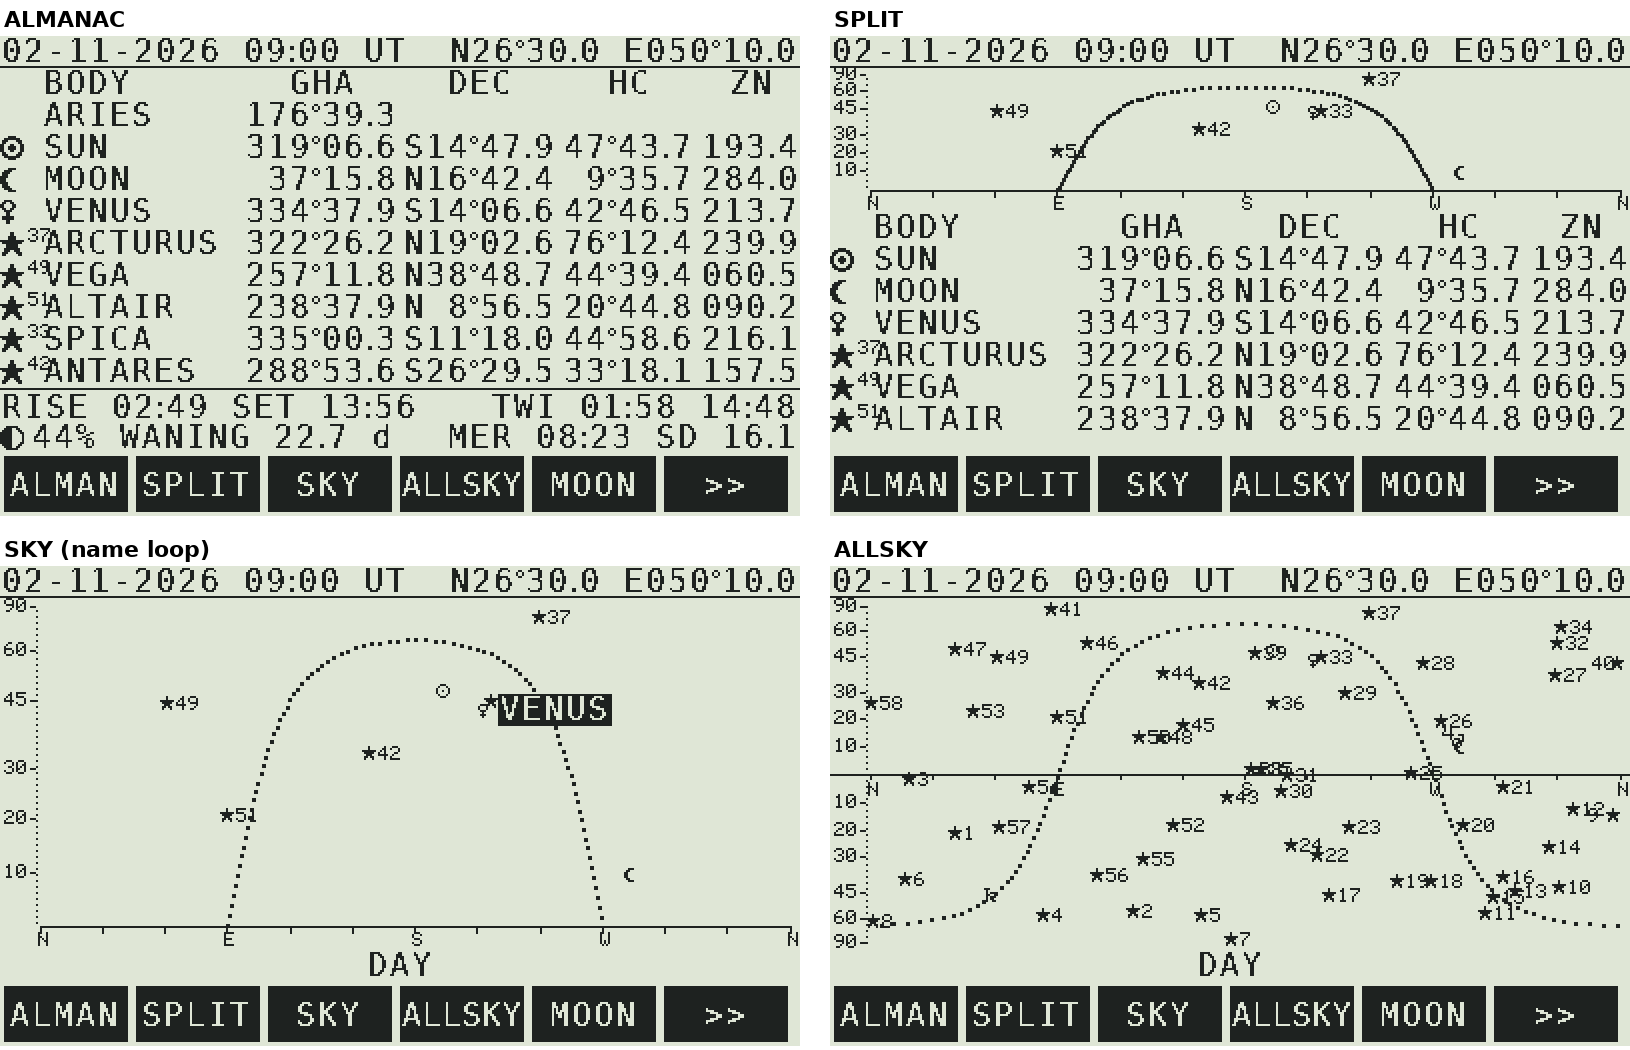
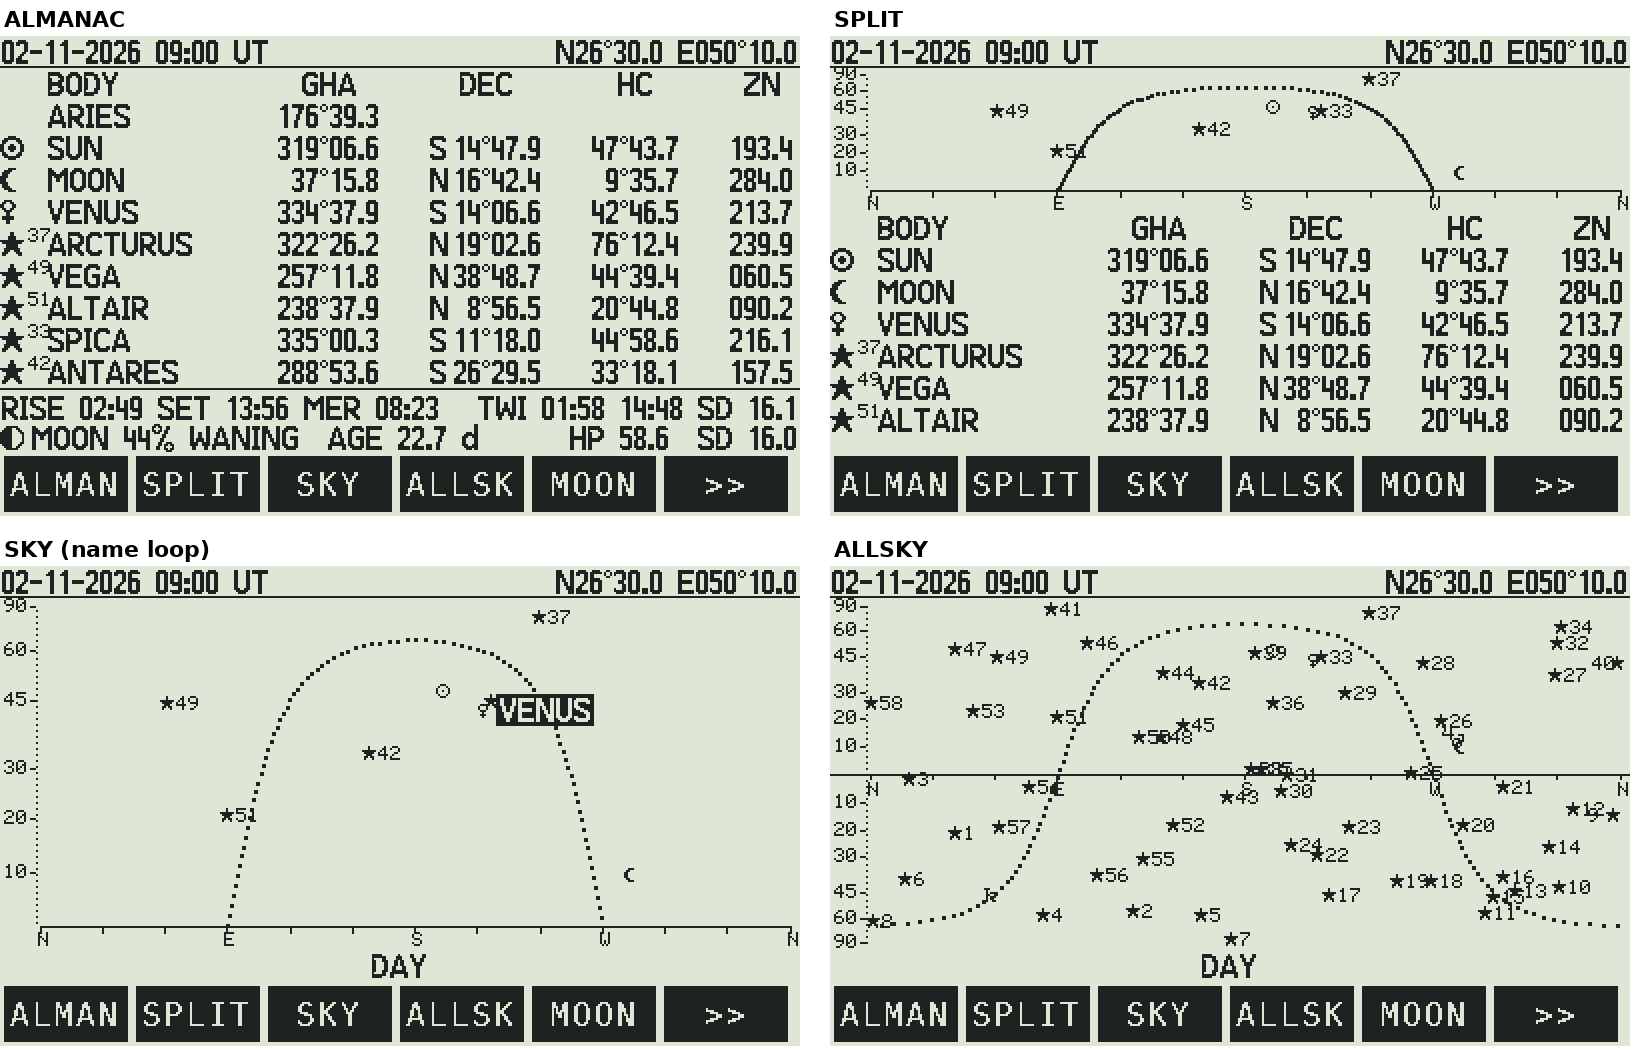
Page text in the C47 standard font
On the DM42n the DMCP t20 text sat lower than planned (the header ran into its rule and
the last row hid under the menu bar) and the ALMANAC table was crowded. All page text now
uses Almanac 47's C47 font (GRFNT 21, already compiled in), drawn pixel for pixel, so the
simulator matches the calculator. The DMCP font stays in the menu bar.

- ALMANAC / SPLIT: full star names, wider columns, Moon HP and SD back in the footer.
- ROUTE: wider columns and a key hint row (UP DN select, ENTER edit).
- ALLSKY soft key labelled ALLSK (the firmware cut it to five letters).

Claude-Session: https://claude.ai/code/session_01Jv6gmoHfVHJhBCrb7z8Khg

diff --git a/src/ntext.c b/src/ntext.c
@@ -1,70 +1,56 @@
-/* ntext.c - NAV47: text in the DMCP5 system font. A private copy of t20's display state (the system's own is not
- * touched): no background or line fill, so the text sits on the charts; the rows are placed by the baseline.
+/* ntext.c - NAV47: the page text in the C47 standard font (GRFNT 21, Almanac 47's font), drawn straight on the
+ * DMCP LCD on 16-pixel rows: the digits 12 pixels high from row + 2 to the baseline at row + 13, descenders below.
+ * The DMCP system font is left to the menu bar. The degree sign is a small ring drawn here.
  * Copyright (C) 2026 Victor Valdes - GPL-3.0-or-later. */
 #include <main.h>
 #include <dmcp.h>
 #include <string.h>
 #include "ntext.h"
+#include "c47scr.h"
 
-static disp_stat_t D;
-static int CW, BASE;           /* the cell width; the baseline from the top of a row */
+#define BASE 13                /* the baseline (the digits' bottom row) from the top of a row */
 
-void nt_init(void) {
-  D = *t20;
-  D.lnfill = 0; D.bgfill = 0; D.newln = 0; D.inv = 0; D.y_top_grd = 0; D.xoffs = 0;
-  CW = lcd_charWidth(&D, '0');
-  BASE = 13;
-}
-int nt_cw(void) { return CW; }
+void nt_init(void) {}
+int nt_cw(void) { return F21.g['0'].adv; }
 
-static int narrow(int c) { return c == '.' || c == ':' || c == 1; }
-
-static void ring(int x, int y, int v) {          /* the degree sign: a 4 x 4 ring at the cap height */
-  y += 2;
-  lcd_fill_rect((uint32_t)x + 1, (uint32_t)y, 2, 1, v);
-  lcd_fill_rect((uint32_t)x + 1, (uint32_t)y + 3, 2, 1, v);
-  lcd_fill_rect((uint32_t)x, (uint32_t)y + 1, 1, 2, v);
-  lcd_fill_rect((uint32_t)x + 3, (uint32_t)y + 1, 1, 2, v);
-}
+static int adv(int c) { return c == 1 ? 5 : F21.g[c & 0x7f].adv; }
 
 int nt_w(const char *s) {
   int w = 0;
-  for (; *s; s++) w += narrow((unsigned char)*s) ? 5 : CW;
+  for (; *s; s++) w += adv((unsigned char)*s);
   return w;
 }
 
-static int draw(int x, int y, const char *s, int inv) {
-  int top = y + BASE - (lcd_lineHeight(&D) - lcd_baseHeight(&D));     /* the line box, by the baseline */
-  D.inv = (uint8_t)inv;
-  char run[64];
-  while (*s) {
-    int n = 0;
-    while (s[n] && !narrow((unsigned char)s[n]) && n < 63) { run[n] = s[n]; n++; }
-    if (n) {
-      run[n] = 0;
-      lcd_setXY(&D, x, top);
-      lcd_writeText(&D, run);
-      x += n * CW;
-      s += n;
-      continue;
+static void px(int x, int y, int v) {
+  if (x >= 0 && y >= 0 && x < LCD_X && y < LCD_Y) lcd_fill_rect((uint32_t)x, (uint32_t)y, 1, 1, v);
+}
+
+static int draw(int x, int y, const char *s, int v) {
+  int bl = y + BASE;
+  for (; *s; s++) {
+    int c = (unsigned char)*s;
+    if (c == 1) {                                   /* the degree ring, 4 x 4 at the top of the digits */
+      int t = y + 2;
+      px(x + 1, t, v); px(x + 2, t, v); px(x + 1, t + 3, v); px(x + 2, t + 3, v);
+      px(x, t + 1, v); px(x, t + 2, v); px(x + 3, t + 1, v); px(x + 3, t + 2, v);
+    } else {
+      const C47Glyph *g = &F21.g[c & 0x7f];
+      for (int k = 0; k < g->n; k++) {
+        const C47Col *col = &F21.c[g->ofs + k];
+        unsigned int m = col->m;
+        for (int i = 0; m; i++, m >>= 1)
+          if (m & 1) px(x + col->x, bl - (g->yoff + i), v);
+      }
     }
-    int c = (unsigned char)*s++;
-    if (c == 1) ring(x, y, !inv);
-    else {
-      char t[2] = { (char)c, 0 };
-      lcd_setXY(&D, x + 2 - CW / 2, top);          /* the dot of a cell is in its middle */
-      lcd_writeText(&D, t);
-    }
-    x += 5;
+    x += adv(c);
   }
-  D.inv = 0;
   return x;
 }
 
-int nt(int x, int y, const char *s) { return draw(x, y, s, 0); }
+int nt(int x, int y, const char *s) { return draw(x, y, s, 1); }
 int nt_inv(int x, int y, const char *s) {
-  lcd_fill_rect((uint32_t)(x - 1), (uint32_t)y, (uint32_t)(nt_w(s) + 2), NT_ROW, 1);
-  return draw(x, y, s, 1);
+  lcd_fill_rect((uint32_t)(x - 2), (uint32_t)y, (uint32_t)(nt_w(s) + 3), NT_ROW, 1);
+  return draw(x, y, s, 0);
 }
-int nt_r(int xr, int y, const char *s) { return draw(xr - nt_w(s), y, s, 0); }
-int nt_c(int xc, int y, const char *s) { return draw(xc - nt_w(s) / 2, y, s, 0); }
+int nt_r(int xr, int y, const char *s) { return draw(xr - nt_w(s), y, s, 1); }
+int nt_c(int xc, int y, const char *s) { return draw(xc - nt_w(s) / 2, y, s, 1); }

diff --git a/src/views.c b/src/views.c
@@ -142,27 +142,32 @@ static void header(const Al *al, double j) {
 
 /* ---------------------------------------------------------------- the body table (ALMANAC, SPLIT) */
 typedef struct { int name, gha, ns, dec, hc, zn; } Cols;
+static int NAMEW;
 static Cols cols(void) {
-  int c = nt_cw(), dm3 = 6 * c + 10, dm2 = 5 * c + 10;
+  int c = nt_cw(), dm3 = nt_w("000" NT_DEG "00.0"), dm2 = nt_w("00" NT_DEG "00.0");
+  if (!NAMEW) {
+    for (int i = 0; i < 58; i++) if (nt_w(STAR_NAME47[i]) > NAMEW) NAMEW = nt_w(STAR_NAME47[i]);
+    if (nt_w("JUPITER") > NAMEW) NAMEW = nt_w("JUPITER");
+  }
   Cols X;
-  X.name = 22;
-  X.gha = X.name + 9 * c + 2 + dm3;             /* right edges */
-  X.ns = X.gha + 3;
-  X.dec = X.ns + c + dm2;
-  X.hc = X.dec + 4 + dm2;
-  X.zn = X.hc + 4 + 4 * c + 5;
-  int e = (400 - X.zn) / 4;
+  X.name = 24;
+  X.gha = X.name + NAMEW + 4 + dm3;             /* right edges */
+  X.ns = X.gha + 6;
+  X.dec = X.ns + nt_w("N") + 2 + dm2;
+  X.hc = X.dec + 6 + dm2;
+  X.zn = X.hc + 6 + nt_w("000.0");
+  (void)c;
+  int e = (398 - X.zn) / 4;
   if (e > 0) { X.gha += e; X.ns += 2 * e; X.dec += 2 * e; X.hc += 3 * e; X.zn += 4 * e; }
   return X;
 }
 
 static void table_heads(int y, const Cols *X) {
-  int c = nt_cw();
   nt(X->name, y, "BODY");
-  nt_c(X->gha - (6 * c + 10) / 2, y, "GHA");
+  nt_c(X->gha - nt_w("000" NT_DEG "00.0") / 2, y, "GHA");
   nt_c((X->ns + X->dec) / 2, y, "DEC");
-  nt_c(X->hc - (5 * c + 10) / 2, y, "HC");
-  nt_c(X->zn - (4 * c + 5) / 2, y, "ZN");
+  nt_c(X->hc - nt_w("00" NT_DEG "00.0") / 2, y, "HC");
+  nt_c(X->zn - nt_w("000.0") / 2, y, "ZN");
 }
 
 /* ---------------------------------------------------------------- ALMANAC */
@@ -187,7 +192,7 @@ void view_almanac(Al *al) {
     int y = 3 * R + R * i;
     VBody *v = &B[i];
     char nm[12];
-    snprintf(nm, sizeof nm, "%.9s", body_name(v->id));
+    snprintf(nm, sizeof nm, "%.11s", body_name(v->id));
     nt(X.name, y, nm);
     f_dm(s, v->gha); nt_r(X.gha, y, s);
     nt(X.ns, y, v->dec < 0 ? "S" : "N");
@@ -198,18 +203,18 @@ void view_almanac(Al *al) {
   }
   lcd_fill_rect(0, 11 * R, LCD_X, 1, 1);
   /* the Sun's day and the Moon (Almanac 47's three footer lines in two) */
-  f_hm(a, al->times[1]); f_hm(b, al->times[3]);
-  sprintf(s, "RISE %s SET %s", a, b);
+  f_hm(a, al->times[1]); f_hm(b, al->times[3]); f_hm(t, al->times[2]);
+  sprintf(s, "RISE %s SET %s MER %s", a, b, t);
   nt(1, 11 * R + 2, s);
   f_hm(a, al->times[0]); f_hm(b, al->times[4]);
-  sprintf(s, "TWI %s %s", a, b);
-  nt_r(399, 11 * R + 2, s);
-  f_f1(t, al->age);
-  sprintf(s, "%ld%% %s %s d", (long)ipd(al->illum + 0.5), moon_word(al), t);
-  nt(16, 12 * R + 1, s);
-  f_hm(a, al->times[2]);
   f_f1(t, al->sun.sd);
-  sprintf(s, "MER %s SD %s", a, t);
+  sprintf(s, "TWI %s %s SD %s", a, b, t);
+  nt_r(399, 11 * R + 2, s);
+  char hp[24], sd[24];
+  f_f1(t, al->age); f_f1(hp, al->moon[2]); f_f1(sd, al->moon[3]);
+  sprintf(s, "MOON %ld%% %s  AGE %s d", (long)ipd(al->illum + 0.5), moon_word(al), t);
+  nt(16, 12 * R + 1, s);
+  sprintf(s, "HP %s  SD %s", hp, sd);
   nt_r(399, 12 * R + 1, s);
 }
 
@@ -278,7 +283,7 @@ void view_split(Al *al) {
     int y = 104 + R * i;
     char s[24], nm[12];
     VBody *v = &B[i];
-    snprintf(nm, sizeof nm, "%.9s", body_name(v->id));
+    snprintf(nm, sizeof nm, "%.11s", body_name(v->id));
     nt(X.name, y, nm);
     f_dm(s, v->gha); nt_r(X.gha, y, s);
     nt(X.ns, y, v->dec < 0 ? "S" : "N");

diff --git a/src/main.c b/src/main.c
@@ -778,11 +778,11 @@ static void draw_route(void) {
   sprintf(s, "%d WP  TOTAL %.1f NM", N->nwp, tot);
   nt_r(LCD_X - 2, 0, s);
   lcd_fill_rect(0, 15, LCD_X, 1, 1);
-  int c = nt_cw();
-  int xw = 2 * c, xla = xw + 6 + 5 * c + 10 + c, xlo = xla + 6 + 6 * c + 10 + c, xc = xlo + 8 + 3 * c + 5,
-      xd = xc + 8 + 5 * c + 5, xcu = xd + 8 + 6 * c + 5;
-  if (xcu > 398) xcu = 398;
-  nt_r(xw, 16, "WP"); nt_c(xla - (7 * c + 10) / 2, 16, "LAT"); nt_c(xlo - (8 * c + 10) / 2, 16, "LON");
+  int xw = 6 + nt_w("40"), xla = xw + 10 + nt_w("00" NT_DEG "00.0N"), xlo = xla + 12 + nt_w("000" NT_DEG "00.0E"),
+      xc = xlo + 12 + nt_w("000" NT_DEG), xd = xc + 12 + nt_w("0000.0"), xcu = xd + 12 + nt_w("00000.0");
+  int e = (396 - xcu) / 5;
+  if (e > 0) { xla += e; xlo += 2 * e; xc += 3 * e; xd += 4 * e; xcu += 5 * e; }
+  nt_r(xw, 16, "WP"); nt_c(xla - nt_w("00" NT_DEG "00.0N") / 2, 16, "LAT"); nt_c(xlo - nt_w("000" NT_DEG "00.0E") / 2, 16, "LON");
   nt_r(xc, 16, N->cfg.gc ? "ICRS" : "CRS"); nt_r(xd, 16, "DIST"); nt_r(xcu, 16, "CUM");
   if (!N->nwp) {
     nt(4, 48, "No waypoints yet.");
@@ -795,11 +795,9 @@ static void draw_route(void) {
     nt(4, 176, "circle (initial course)");
     return;
   }
-  int vis = 11;
-  if (wp_edit >= 0) {
-    vis = 10;
-    nt_inv(2, 192, wp_edit ? "LON DDD.MMm  +/- WEST  ENTER" : "LAT DD.MMm  +/- SOUTH  ENTER");
-  }
+  int vis = 10;
+  if (wp_edit >= 0) nt_inv(2, 192, wp_edit ? "LON DDD.MMm  +/- WEST  ENTER" : "LAT DD.MMm  +/- SOUTH  ENTER");
+  else nt(2, 192, "UP DN select   ENTER edit");
   if (wp_cur >= N->nwp) wp_cur = N->nwp - 1;
   int top = wp_cur - vis / 2;
   if (top > N->nwp - vis) top = N->nwp - vis;
@@ -859,7 +857,7 @@ static void key_wp(int key) {
 /*  Menus, keys, main loop                                            */
 /* ------------------------------------------------------------------ */
 static const char *MENUS[4][6] = {
-  { "ALMAN", "SPLIT", "SKY", "ALLSKY", "MOON", ">>" },
+  { "ALMAN", "SPLIT", "SKY", "ALLSK", "MOON", ">>" },
   { "ANIM", "TIDE", "ROUTE", "ZONES", "STATNS", ">>" },
   { "SET", "FILES", "INFO", "NOW", "", ">>" },
   { "ADD", "EDIT", "DEL", "RL/GC", "HERE", ">>" },

diff --git a/src/ntext.h b/src/ntext.h
@@ -1,5 +1,5 @@
-/* ntext.h - NAV47: text in the DMCP5 system font (t20) on 16-pixel rows, with the few symbols the font has not
- * (the degree ring, narrow '.' and ':') drawn here. GPL-3.0-or-later. */
+/* ntext.h - NAV47: the page text in the C47 standard font (GRFNT 21) on 16-pixel rows, and the degree ring.
+ * GPL-3.0-or-later. */
 #ifndef NAV47_NTEXT_H
 #define NAV47_NTEXT_H
 

diff --git a/README.md b/README.md
@@ -11,7 +11,7 @@ everywhere.
 | F1 | **ALMAN** | [almanac47](https://github.com/valdesvj/almanac47) | ARIES, the 8 bodies (Sun, Moon, a planet, the brightest stars): GHA, Dec, Hc, Zn; rise/set, twilight, meridian passage, SD, the Moon's phase and age |
 | F2 | **SPLIT** | almanac47 | the horizon chart with the celestial equator above the table (6 bodies) |
 | F3 | **SKY** | almanac47 | the horizon chart, sine scale, celestial equator; the names of the bodies in turn, one a second |
-| F4 | **ALLSKY** | almanac47 | the whole sky: all 58 stars, planets, Moon, Sun, above and below the horizon |
+| F4 | **ALLSK** | almanac47 | the whole sky: all 58 stars, planets, Moon, Sun, above and below the horizon |
 | F5 | **MOON** | almanac47 (MOON47) | the disc, phase, % lit, age, HP, SD, the next four phases, the eight phases; **+/−** the view from the south |
 | `>>` F1 | **ANIM** | almanac47 | the movie: the Sun and the Moon across the whole sky, 24 frames 30 min apart |
 | `>>` F2 | **TIDE** | [tide47](https://github.com/valdesvj/tide47) (ARTF47) | tide and current on one page, as ARTF47: HW−6 … HW+6 with the stream of the FLOW atlas at your position (set, knots, arrow), and the tide of the nearest port (curve, high and low waters). Without an atlas: the chosen station's heights or stream |
@@ -21,9 +21,10 @@ everywhere.
 | `>> >>` | **SET FILES INFO NOW** | | position, clock TZ, live or fixed time, wind; tide files; about; back to now |
 
 The views are Almanac 47's (`python/native/c47screen21.py`): the same bodies, charts, glyphs47 symbols (☉ ☾ ♀ ♂ ♃ ♄
-★ and the Moon phases), tinyFont scale labels and dotted celestial equator. The text is in the **DMCP5 system font**
-(t20), so the views are compressed into the 208 rows above the menu bar: 16-pixel rows, star names cut to 9
-letters, the degree sign and narrow `.` `:` drawn by NAV47. On the DM42n a view takes about 0.1 s (battery).
+★ and the Moon phases), tinyFont scale labels and dotted celestial equator, in the 208 rows above the menu bar. The
+text is in Almanac 47's **C47 standard font** (GRFNT 21) on 16-pixel rows, drawn pixel for pixel by NAV47 (what the
+simulator shows is what the DM42n shows); the DMCP system font is kept for the menu bar. On the DM42n a view takes
+about 0.1 s (battery).
 
 ![NAV47 views](docs/views1.png)
 
@@ -31,8 +32,8 @@ letters, the degree sign and narrow `.` `:` drawn by NAV47. On the DM42n a view 
 
 ![TIDE, ROUTE, ZONES, SET](docs/views3.png)
 
-*(Simulator pictures: the font stands in for the DMCP one; on the calculator the letters look a little different.
-The TIDE page with streams uses Tide 47's synthetic atlas: the real atlas is private.)*
+*(Simulator pictures; the menu bar's font stands in for the DMCP one. The TIDE page with streams uses Tide 47's
+synthetic atlas: the real atlas is private.)*
 
 ## ROUTE: passage planning
 
@@ -75,7 +76,7 @@ To go back to Free42: **RESET + F1 → Load program → DM42-x.yy.pg5**.
 
 | Key | Action |
 |---|---|
-| **F1-F6** | the soft keys; `>>` the next row (ALMAN SPLIT SKY ALLSKY MOON / ANIM TIDE ROUTE ZONES STATNS / SET FILES INFO NOW) |
+| **F1-F6** | the soft keys; `>>` the next row (ALMAN SPLIT SKY ALLSK MOON / ANIM TIDE ROUTE ZONES STATNS / SET FILES INFO NOW) |
 | **UP DOWN** | views: one hour later / earlier (as Almanac 47). ZONES: the cities. SET / STATNS / ROUTE: move |
 | **4 6 / 7 9** | views: 10 minutes / one day. ZONES: zone west / east. TIDE: High Water before / after |
 | **1 3** | TIDE: day before / after |
@@ -135,7 +136,7 @@ make sim                   # PC simulator: build/sim, pictures with test/sim/ren
 | `src/tide.c` `tidecons.c` `tidedata_pub.c` | Tide 47's engine, its 60 constituents, 32 public stations (`tools/gen_tides.py`) |
 | `src/tidefile.c` | the `.TID` / `.FLW` file reader |
 | `src/views.c` `c47scr.c` `fonts21.c` | Almanac 47's views on a C47 screen layer (PIXEL, AGRAPH), glyphs47 symbols and tinyFont (`tools/gen_fonts21.py`) |
-| `src/ntext.c` | text in the DMCP5 system font on 16-pixel rows; the degree sign |
+| `src/ntext.c` | the page text in the C47 standard font on 16-pixel rows; the degree sign |
 | `src/moon47.c` | MOON47, the C twin of Almanac 47's `python/moon47.py` (`test/test_moon47.py`: 400 dates, identical) |
 | `src/route.c` | ROUTE: rhumb line and great circle |
 | `src/gfx.c` `fonts.c` | the other pages, C47 standardFont and tinyFont (`tools/gen_fonts.py`) |
